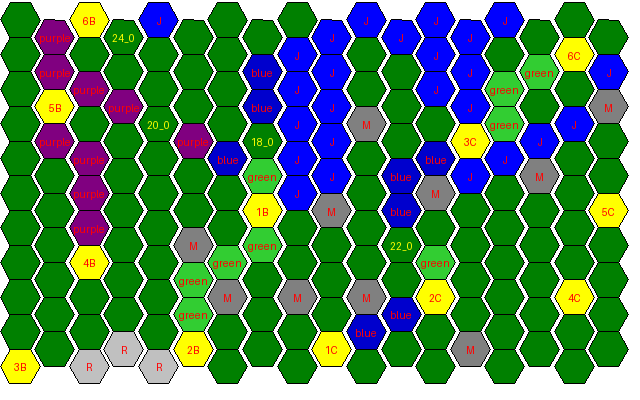
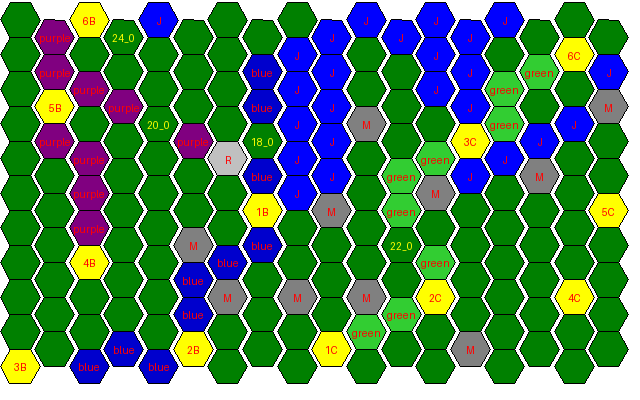
git2

diff --git a/ImageToBoard.py b/ImageToBoard.py
@@ -33,7 +33,7 @@ class ImageToBoard:
         self.data_detect = None
         self.markup_detect = None
         self.roads_name = None
-        self.roads_name_translated = ['black', 'blue', 'green', 'purple', 'red', '-', 'yellow']
+        self.roads_name_translated = ['black', 'blue', 'green', 'purple', 'red', '-', 'yellow', 'R']
         print(folder_path)
         if os.path.exists(folder_path):
             shutil.rmtree(folder_path)
@@ -101,8 +101,6 @@ class ImageToBoard:
         self.tab[1][17] = "J"
 
     def translate_roads(self,roads):
-        print('=========')
-        print(self.roads_name)
         for i in range(len(roads)):
             for state in roads[i]:
                 if i < len(self.roads_name):
@@ -472,7 +470,9 @@ class ImageToBoard:
             self.tabNp[o][p] = str(self.class_id_to_name(class_))
         roads = RoadDefineScript.Main_Algorithm_Translated_Map(self.tabNp)
         self.roads_name = []
+        
         for road in roads:
+            check = False
             for coords in road:
                 for row in self.markup_detect:
                     class_, x_prop, y_prop, width_prop, height_prop, conf,o,p = row
@@ -480,6 +480,10 @@ class ImageToBoard:
                     p = int(p)
                     if coords == [o,p]:
                         self.roads_name.append(class_)
+                        check = True
+            if check == False:
+                self.roads_name.append(len(self.roads_name_translated)-1)
+
 
         self.translate_roads(roads)
         image = self.draw_board(self.columns, self.rows_in_columns, self.tab)
